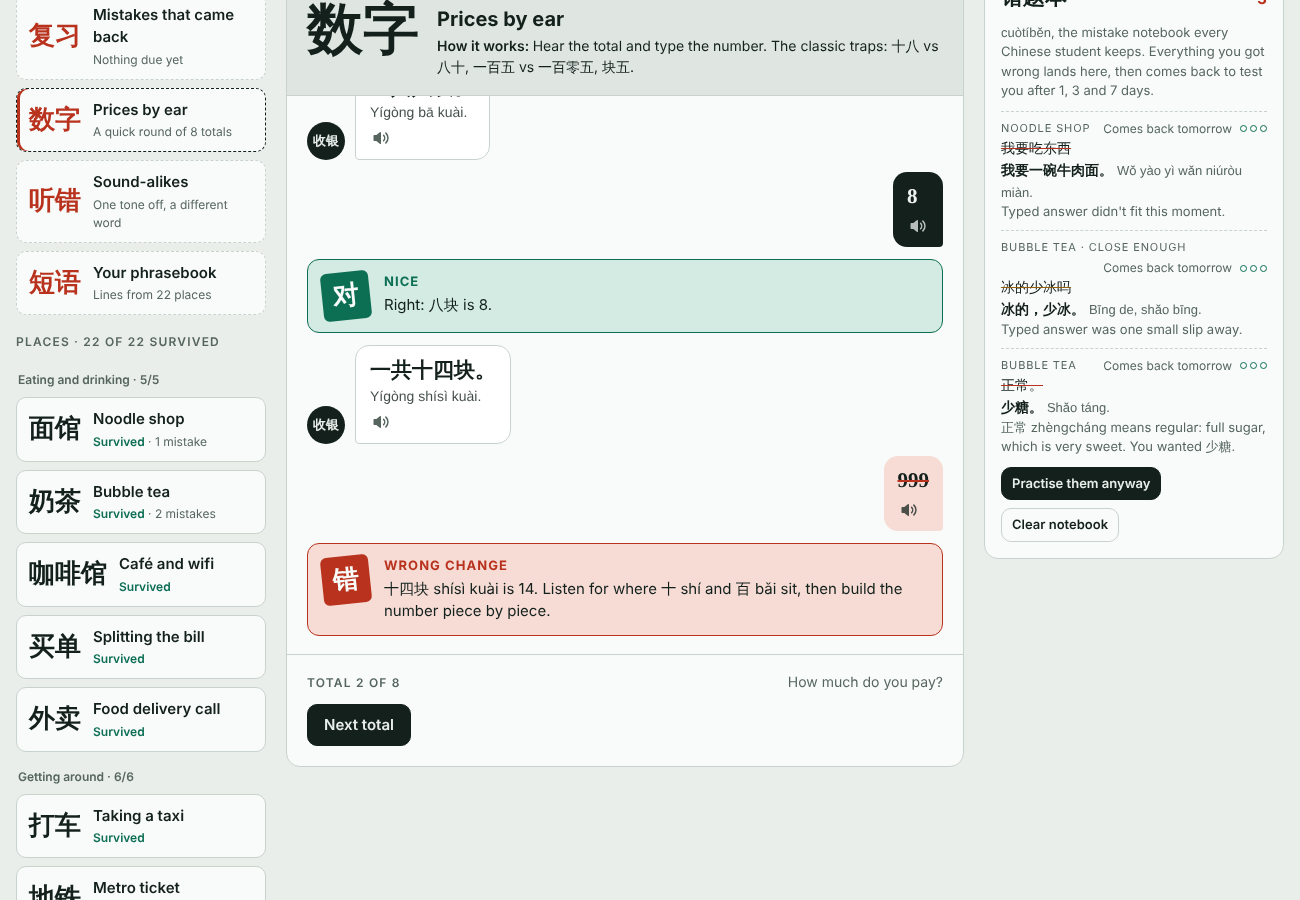
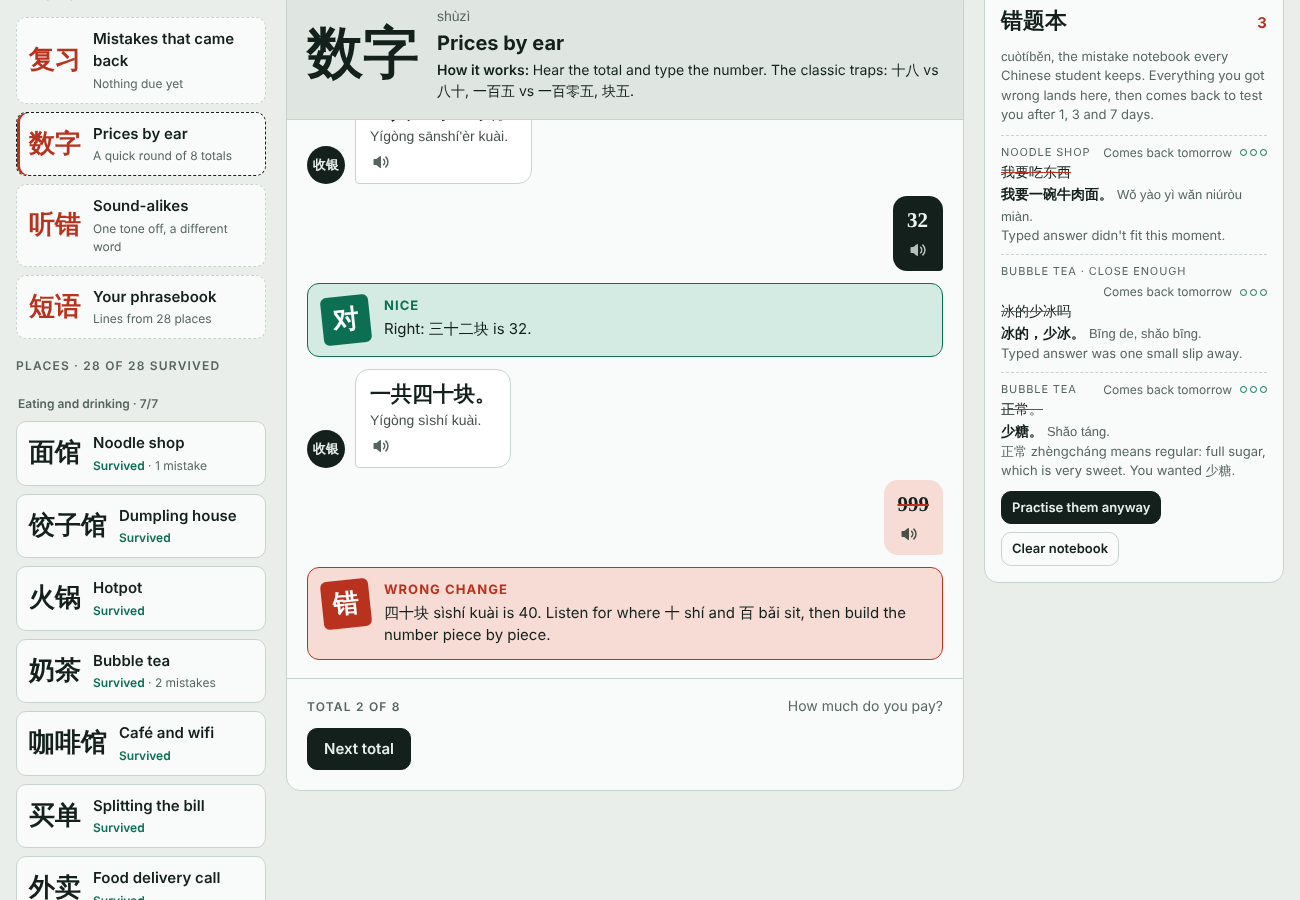
Add hotpot, photo and parcel pickup places
Claude-Session: https://claude.ai/code/session_01R34RyutKKVc3RdJZ63YMvT

diff --git a/scenes.js b/scenes.js
@@ -772,5 +772,80 @@ window.SCENES = [
         ] }
     ],
     end: ["好，微信上聊！", "Hǎo, Wēixìn shang liáo!", "OK, chat on WeChat!"],
-    endNote: "加微信 is the handshake of modern China. 扫一扫 is scan; 二维码 is the QR code; 常联系 is keep in touch." }
+    endNote: "加微信 is the handshake of modern China. 扫一扫 is scan; 二维码 is the QR code; 常联系 is keep in touch." },
+  { id: "hotpot", place: "火锅", placePy: "huǒguō", en: "Hotpot", who: "服务员", whoPy: "fúwùyuán", whoEn: "the waiter",
+    goal: "Order a hotpot you can actually eat: half spicy, half not.",
+    intro: "A packed Chongqing-style hotpot place. The air itself is spicy. A waiter arrives with an iPad.",
+    turns: [
+      { npc: ["几位？锅底要什么？", "Jǐ wèi? Guōdǐ yào shénme?", "How many? Which broth?"], prompt: "Say two people, and ask for a split pot.",
+        opts: [
+          { h: "两位。要鸳鸯锅。", b: "两位|要|鸳鸯锅", p: "Liǎng wèi. Yào yuānyang guō.", e: "Two. A split pot, please.", k: "good", note: "位 wèi is the polite measure word for people. 鸳鸯锅 yuānyang guō (\"mandarin-duck pot\") is the half-spicy, half-plain pot." },
+          { h: "两个人。一半辣一半不辣。", p: "Liǎng ge rén. Yíbàn là yíbàn bú là.", e: "Two people. Half spicy, half not.", k: "good", note: "Describing it works perfectly. The menu name is 鸳鸯锅 yuānyang guō." },
+          { h: "两位。要红锅。", p: "Liǎng wèi. Yào hóng guō.", e: "Two. The red pot.", k: "wrong", carry: "Faced a full pot of chilli oil", r: ["红锅，好的！", "Hóng guō, hǎo de!", "Red pot, sure!"], note: "红锅 hóng guō is the all-spicy red broth. Half and half is 鸳鸯锅.", fix: ["要鸳鸯锅。", "Yào yuānyang guō."] }
+        ] },
+      { npc: ["红锅要什么辣度？微辣、中辣、特辣。", "Hóng guō yào shénme làdù? Wēi là, zhōng là, tè là.", "How spicy for the red side? Mild, medium, extra."], prompt: "Go for mild.",
+        opts: [
+          { h: "微辣。", b: "微辣", p: "Wēi là.", e: "Mild.", k: "good", note: "微 wēi means slight. A warning: in Sichuan and Chongqing, 微辣 is still properly spicy." },
+          { h: "特辣！", p: "Tè là!", e: "Extra spicy!", k: "wrong", carry: "Cried a little into the extra-spicy broth", r: ["特辣？你确定？好……", "Tè là? Nǐ quèdìng? Hǎo…", "Extra? You sure? OK…"], note: "特 tè is \"especially\". The waiter's \"are you sure?\" was a warning.", fix: ["微辣。", "Wēi là."] },
+          { h: "不辣。", p: "Bú là.", e: "Not spicy.", k: "okay", r: ["红锅没有不辣的，最少微辣。", "Hóng guō méiyǒu bú là de, zuì shǎo wēi là.", "The red side can't be not spicy. Mild at least."], note: "The red side is spicy by definition. The plain side is for 不辣.", fix: ["微辣。", "Wēi là."] }
+        ] },
+      { npc: ["蘸料在那边自己拿，一个人五块。", "Zhànliào zài nàbiān zìjǐ ná, yí ge rén wǔ kuài.", "Dipping sauce is self-serve over there, five kuai each."], prompt: "Check you understood: you get it yourself?",
+        opts: [
+          { h: "我们自己去拿，对吧？", b: "我们|自己|去拿|对吧", p: "Wǒmen zìjǐ qù ná, duì ba?", e: "We go and get it ourselves, right?", k: "good", note: "自己 zìjǐ, yourself. The sauce bar is half the fun: sesame oil, garlic and coriander is the classic." },
+          { h: "你给我们拿吧。", p: "Nǐ gěi wǒmen ná ba.", e: "You get it for us.", k: "wrong", r: ["不好意思，是自助的。", "Bù hǎoyìsi, shì zìzhù de.", "Sorry, it's self-service."], note: "自己拿 zìjǐ ná means help yourself. 自助 zìzhù is self-service.", fix: ["我们自己去拿，对吧？", "Wǒmen zìjǐ qù ná, duì ba?"] },
+          { h: "好的。", p: "Hǎo de.", e: "OK.", k: "good", note: "Fine. Just follow the crowd to the sauce bar." }
+        ] }
+    ],
+    end: ["对。锅开了就可以下菜，慢慢吃！", "Duì. Guō kāi le jiù kěyǐ xià cài, mànmān chī!", "Right. Once it boils, put the food in. Enjoy!"],
+    endNote: "鸳鸯锅 is the safe bet. Spice levels: 微辣 mild, 中辣 medium, 特辣 extra. 位 wèi counts guests politely." },
+  { id: "photo", place: "拍照", placePy: "pāizhào", en: "Taking a photo", who: "游客", whoPy: "yóukè", whoEn: "a tourist",
+    goal: "Get a stranger to take your photo, with the whole tower in it.",
+    intro: "On the Bund at sunset. You want a photo of yourself with the skyline. A friendly-looking tourist walks past.",
+    turns: [
+      { npc: null, prompt: "Ask them to take a photo of you.",
+        opts: [
+          { h: "不好意思，能帮我拍张照吗？", b: "不好意思|能|帮我|拍张照吗", p: "Bù hǎoyìsi, néng bāng wǒ pāi zhāng zhào ma?", e: "Sorry, could you take a photo for me?", k: "good", note: "拍照 pāizhào is to take a photo; 张 zhāng is its measure word. 不好意思 opens any favour." },
+          { h: "拍我。", p: "Pāi wǒ.", e: "Shoot me.", k: "okay", r: ["哦，帮你拍？好吧。", "Ò, bāng nǐ pāi? Hǎo ba.", "Oh, take one of you? OK then."], note: "拍 pāi does mean take a photo, but a bare order to a stranger is blunt. Ask it as a favour: 能帮我拍张照吗？", fix: ["能帮我拍张照吗？", "Néng bāng wǒ pāi zhāng zhào ma?"] },
+          { h: "照片，可以吗？", p: "Zhàopiàn, kěyǐ ma?", e: "Photo, OK?", k: "okay", r: ["你要我帮你拍吗？好啊。", "Nǐ yào wǒ bāng nǐ pāi ma? Hǎo a.", "You want me to take one? Sure."], note: "They worked it out. 帮我拍张照 makes the favour clear.", fix: ["能帮我拍张照吗？", "Néng bāng wǒ pāi zhāng zhào ma?"] },
+        ] },
+      { npc: ["好啊。横的还是竖的？", "Hǎo a. Héng de háishi shù de?", "Sure. Landscape or portrait?"], prompt: "Ask for portrait, with the whole tower in.",
+        opts: [
+          { h: "竖的，把塔都拍进去。", b: "竖的|把塔|都|拍进去", p: "Shù de, bǎ tǎ dōu pāi jìnqù.", e: "Portrait, get the whole tower in.", k: "good", note: "横 héng is horizontal, 竖 shù vertical. 拍进去 pāi jìnqù, \"get it into the shot\"." },
+          { h: "竖的。", p: "Shù de.", e: "Portrait.", k: "good", note: "Clear. Adding 把塔拍进去 saves you a photo with the tower cut off." },
+          { h: "横的，只拍我。", p: "Héng de, zhǐ pāi wǒ.", e: "Landscape, just me.", k: "wrong", carry: "Got a great photo of your face and no tower", r: ["好，只拍你。", "Hǎo, zhǐ pāi nǐ.", "OK, just you."], note: "只拍我 means \"only me\", so the tower's out. You wanted it in: 把塔拍进去.", fix: ["竖的，把塔都拍进去。", "Shù de, bǎ tǎ dōu pāi jìnqù."] }
+        ] },
+      { npc: ["一、二、三，茄子！你看看行不行？", "Yī, èr, sān, qiézi! Nǐ kànkan xíng bu xíng?", "One, two, three, cheese! Have a look, is it OK?"], prompt: "It's great. Thank them.",
+        opts: [
+          { h: "拍得真好，谢谢你！", b: "拍得|真好|谢谢你", p: "Pāi de zhēn hǎo, xièxie nǐ!", e: "That's a really good shot, thank you!", k: "good", note: "Verb + 得 de + how: 拍得真好, \"shot really well\". 茄子 qiézi (aubergine) is China's \"cheese\"." },
+          { h: "茄子！", p: "Qiézi!", e: "Aubergine!", k: "okay", r: ["哈哈，已经拍好了！", "Hāhā, yǐjīng pāi hǎo le!", "Haha, it's already taken!"], note: "That's for smiling, not thanking. Try 拍得真好，谢谢！", fix: ["拍得真好，谢谢你！", "Pāi de zhēn hǎo, xièxie nǐ!"] },
+          { h: "很好看，谢谢！", p: "Hěn hǎokàn, xièxie!", e: "Looks great, thanks!", k: "good", note: "好看 hǎokàn, good-looking. Warm and natural." }
+        ] }
+    ],
+    end: ["不客气！要不要再来一张？", "Bú kèqi! Yào bu yào zài lái yì zhāng?", "No problem! Want another one?"],
+    endNote: "帮我拍张照 is the favour; 横 landscape, 竖 portrait. People say 茄子 qiézi to smile." },
+  { id: "parcel", place: "快递站", placePy: "kuàidì zhàn", en: "Parcel pickup", who: "店员", whoPy: "diànyuán", whoEn: "the clerk",
+    goal: "Collect your online order from the parcel station.",
+    intro: "A tiny shop stacked to the ceiling with parcels. You got a text with a pickup code.",
+    turns: [
+      { npc: ["取件吗？取件码多少？", "Qǔjiàn ma? Qǔjiànmǎ duōshao?", "Picking up? What's the pickup code?"], prompt: "Read your code: 3-1-7-4.",
+        opts: [
+          { h: "三一七四。", b: "三|一|七|四", p: "Sān yāo qī sì.", e: "3-1-7-4.", k: "good", note: "In codes and phone numbers, 1 is read 幺 yāo so it isn't mixed up with 七 qī. The character stays 一." },
+          { h: "三千一百七十四。", p: "Sānqiān yìbǎi qīshísì.", e: "Three thousand one hundred seventy-four.", k: "okay", r: ["……三一七四是吧？", "…Sān yāo qī sì shì ba?", "…3-1-7-4, right?"], note: "Codes are read digit by digit, like a phone number.", fix: ["三一七四。", "Sān yāo qī sì."] },
+          { h: "三一七十。", p: "Sān yāo qī shí.", e: "3-1-7-10.", k: "wrong", r: ["七十？没有这个号。你再看看。", "Qīshí? Méiyǒu zhège hào. Nǐ zài kànkan.", "Seventy? No such code. Look again."], note: "十 shí is ten; 四 sì is four. The classic mix-up.", fix: ["三一七四。", "Sān yāo qī sì."] }
+        ] },
+      { npc: ["手机号后四位？", "Shǒujī hào hòu sì wèi?", "Last four digits of your phone number?"], prompt: "Give the last four: 8-8-2-0.",
+        opts: [
+          { h: "八八二零。", b: "八|八|二|零", p: "Bā bā èr líng.", e: "8-8-2-0.", k: "good", note: "后四位 hòu sì wèi, the last four digits. 零 líng is zero. In digit strings, 2 stays 二 èr." },
+          { h: "八八两零。", p: "Bā bā liǎng líng.", e: "8-8-2-0.", k: "okay", r: ["八八二零，好。", "Bā bā èr líng, hǎo.", "8-8-2-0, OK."], note: "两 liǎng is for counting things. In digits, it's 二 èr.", fix: ["八八二零。", "Bā bā èr líng."] },
+          { h: "前四位是一三九八。", p: "Qián sì wèi shì yāo sān jiǔ bā.", e: "The first four are 1398.", k: "wrong", r: ["我要后四位，不是前四位。", "Wǒ yào hòu sì wèi, bú shì qián sì wèi.", "I need the LAST four, not the first."], note: "后 hòu is after or last; 前 qián is before or first.", fix: ["八八二零。", "Bā bā èr líng."] }
+        ] },
+      { npc: ["找到了，这个箱子。在这儿签个字。", "Zhǎo dào le, zhège xiāngzi. Zài zhèr qiān ge zì.", "Found it, this box. Sign here."], prompt: "Sign and thank them.",
+        opts: [
+          { h: "好的，谢谢！", b: "好的|谢谢", p: "Hǎo de, xièxie!", e: "OK, thanks!", k: "good", note: "签字 qiānzì is to sign. 签个字 is the casual \"sign here\"." },
+          { h: "这不是我的。", p: "Zhè bú shì wǒ de.", e: "This isn't mine.", k: "wrong", r: ["不是你的？名字对啊……你再看看。", "Bú shì nǐ de? Míngzi duì a… nǐ zài kànkan.", "Not yours? The name matches… take another look."], note: "Only say this if it really isn't. Check the label first: 我看一下 wǒ kàn yíxià, let me look.", fix: ["好的，谢谢！", "Hǎo de, xièxie!"] },
+          { h: "签哪儿？", p: "Qiān nǎr?", e: "Sign where?", k: "good", note: "A good question if you can't see where. They'll point." }
+        ] }
+    ],
+    end: ["好了，拿走吧。", "Hǎo le, ná zǒu ba.", "Done, take it away."],
+    endNote: "Read codes digit by digit, with 1 as 幺 yāo. 后四位 is the last four digits. 签字 is to sign." }
 ];

diff --git a/index.html b/index.html
@@ -396,11 +396,11 @@ function setHead(place, py, en, goalLabel, goal) {
 }
 
 const GROUPS = [
-  { name: "Eating and drinking", ids: ["noodles", "dumplings", "tea", "cafe", "bill", "delivery"] },
+  { name: "Eating and drinking", ids: ["noodles", "dumplings", "hotpot", "tea", "cafe", "bill", "delivery"] },
   { name: "Getting around", ids: ["taxi", "metro", "train", "directions", "bike", "toilet"] },
   { name: "Shopping", ids: ["market", "fruit", "store", "return", "haircut"] },
-  { name: "Sorting things out", ids: ["hotel", "landlord", "sim", "pharmacy", "clinic", "lost"] },
-  { name: "People", ids: ["friend", "wechat"] }
+  { name: "Sorting things out", ids: ["hotel", "landlord", "parcel", "sim", "pharmacy", "clinic", "lost"] },
+  { name: "People", ids: ["friend", "wechat", "photo"] }
 ];
 function railOrder() {
   const ids = GROUPS.flatMap(g => g.ids);

diff --git a/README.md b/README.md
@@ -16,7 +16,7 @@ After editing `scenes.js`, run `node tools/check-scenes.js`. It catches missing 
 
 ## What's in it
 
-- Twenty-five places, grouped by theme: noodle shop, taxi, night market bargaining, asking directions, pharmacy, convenience store, metro ticket, hotel check-in, making a friend, splitting the bill, bubble tea, haircut, SIM card, lost phone, finding a toilet, fruit stall, food delivery call, train station, returning a shirt, café and wifi, bike share, hospital registration, dumpling house, no hot water (calling the landlord), swapping WeChat
+- Twenty-eight places, grouped by theme: noodle shop, taxi, night market bargaining, asking directions, pharmacy, convenience store, metro ticket, hotel check-in, making a friend, splitting the bill, bubble tea, haircut, SIM card, lost phone, finding a toilet, fruit stall, food delivery call, train station, returning a shirt, café and wifi, bike share, hospital registration, dumpling house, no hot water (calling the landlord), swapping WeChat, hotpot, asking for a photo, parcel pickup
 - Sound-alikes: hear a line and tell it from its tonal twin (买 vs 卖, 问 vs 吻, 十四 vs 四十)
 - A practice streak and a count of lines answered
 - "Why, exactly?" on any mistake: Claude explains the grammar or sound behind it, with a memory trick
